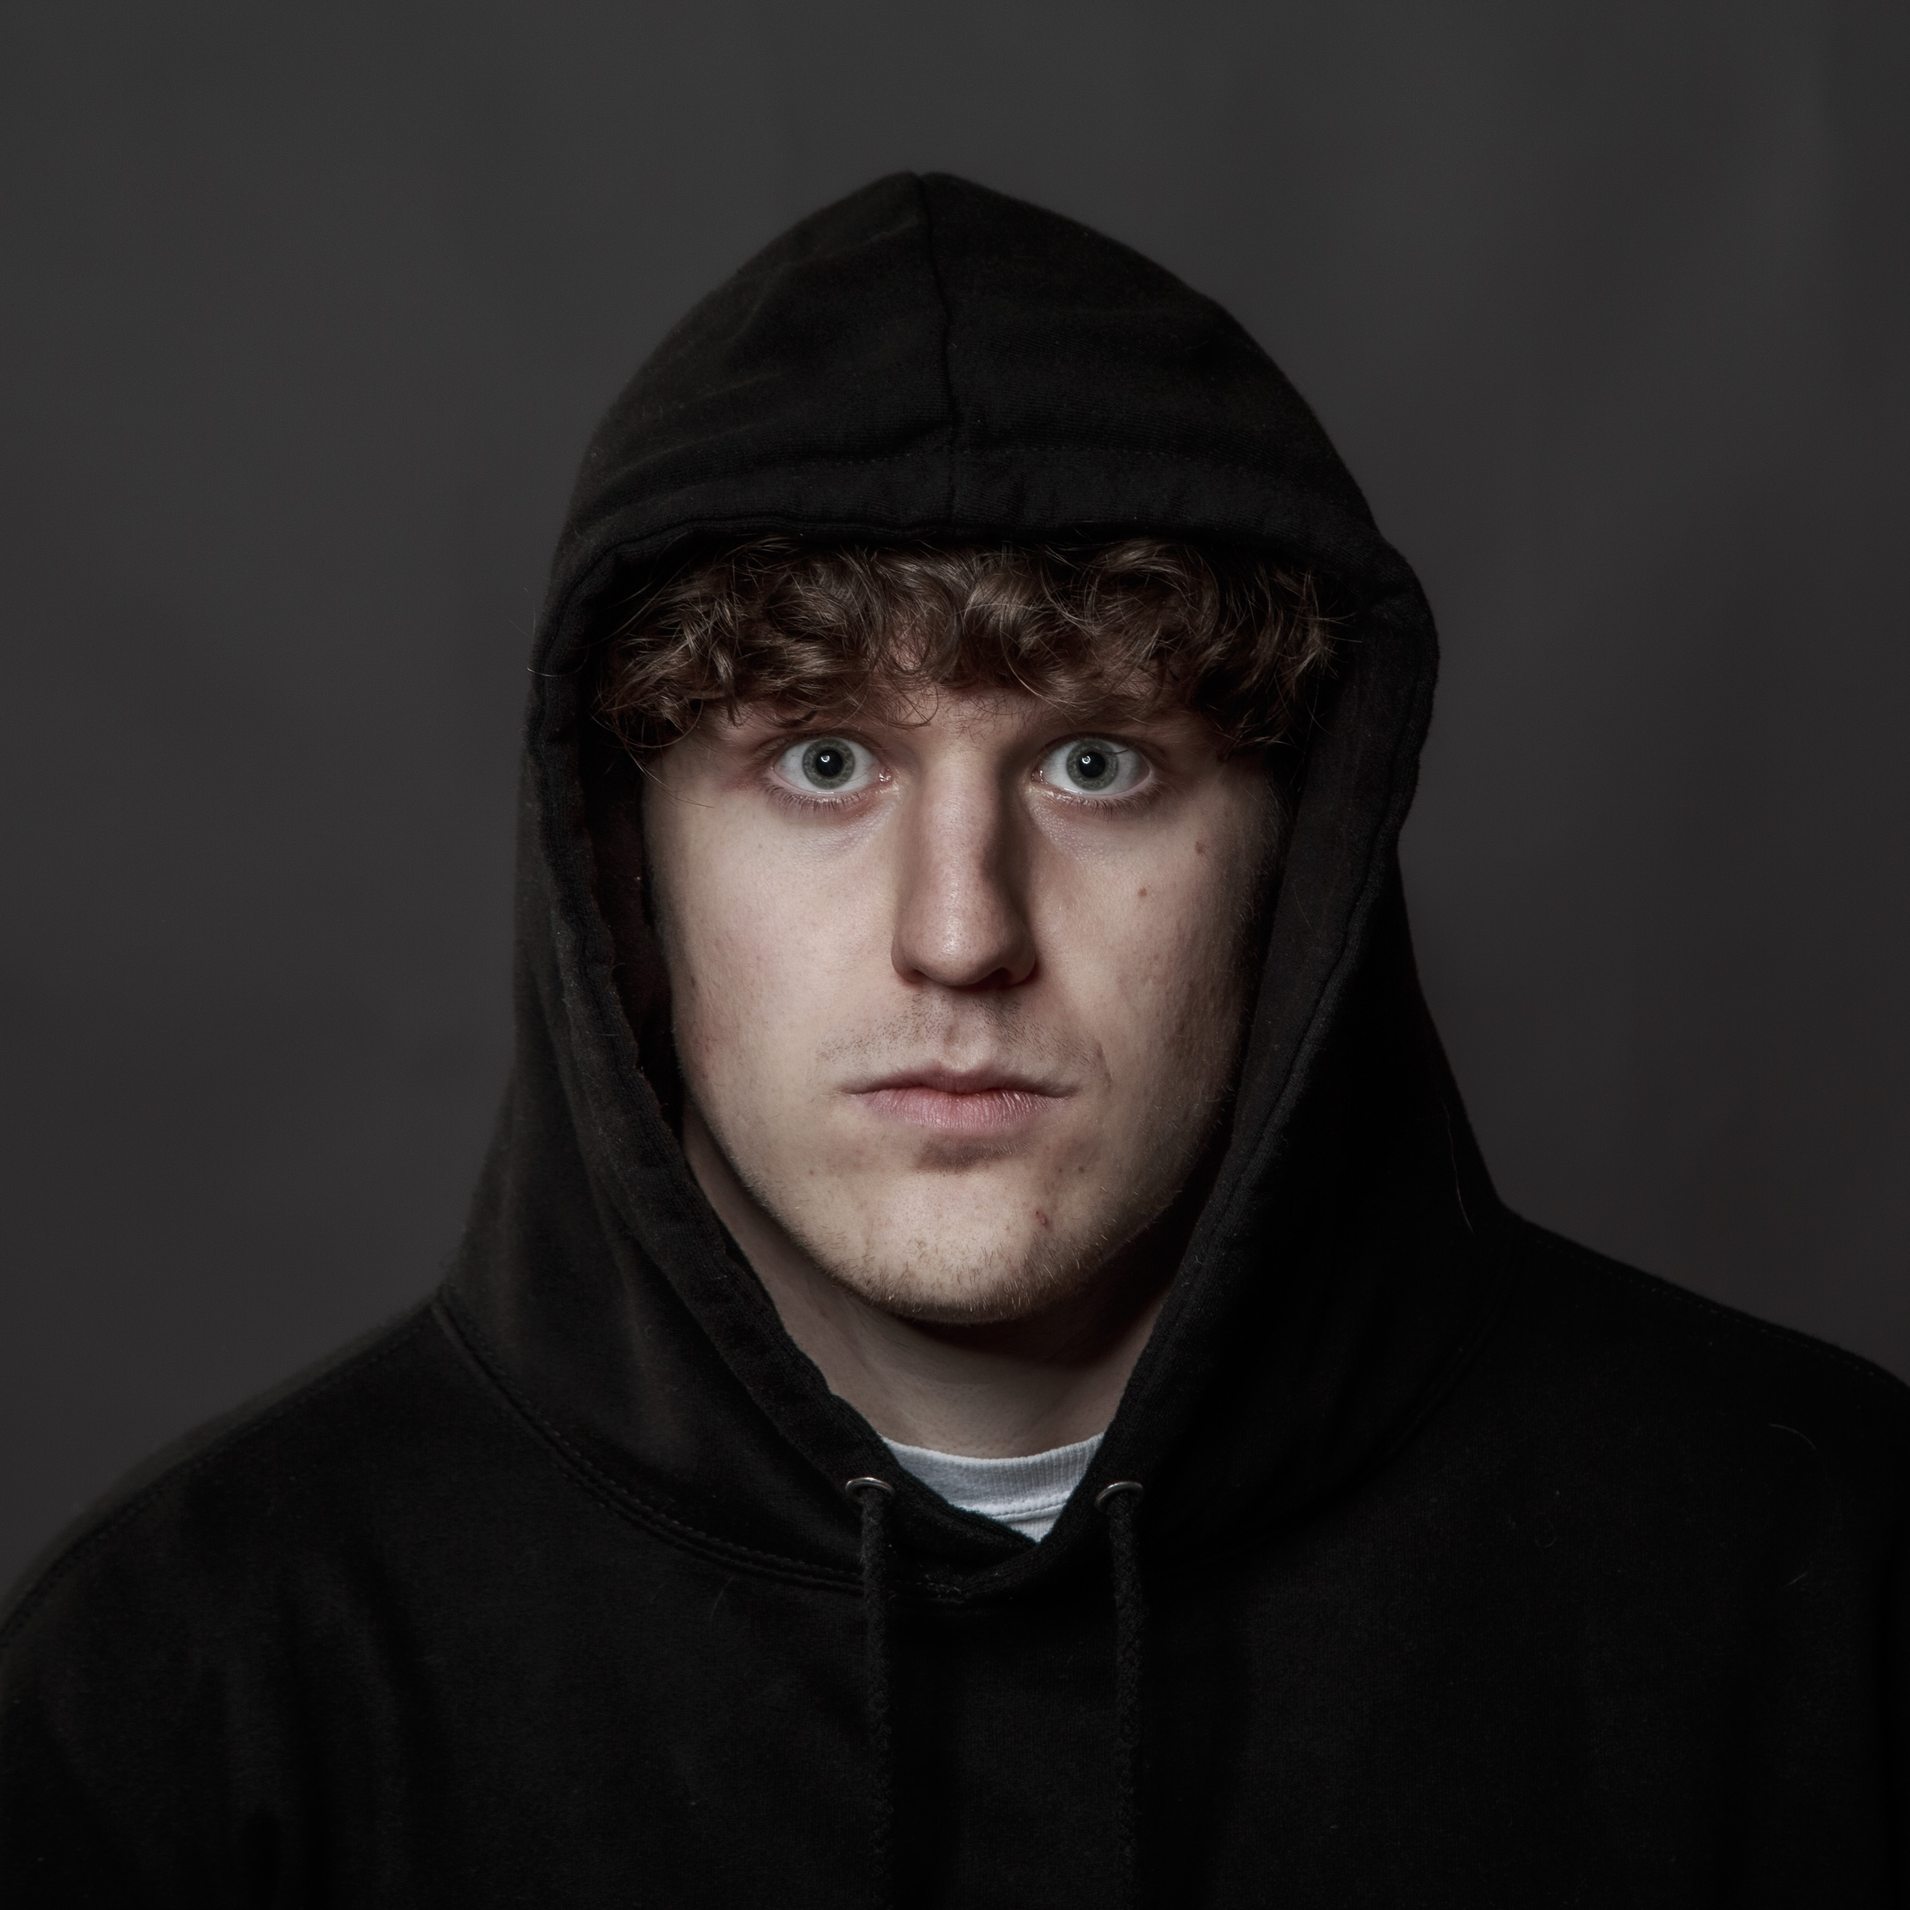
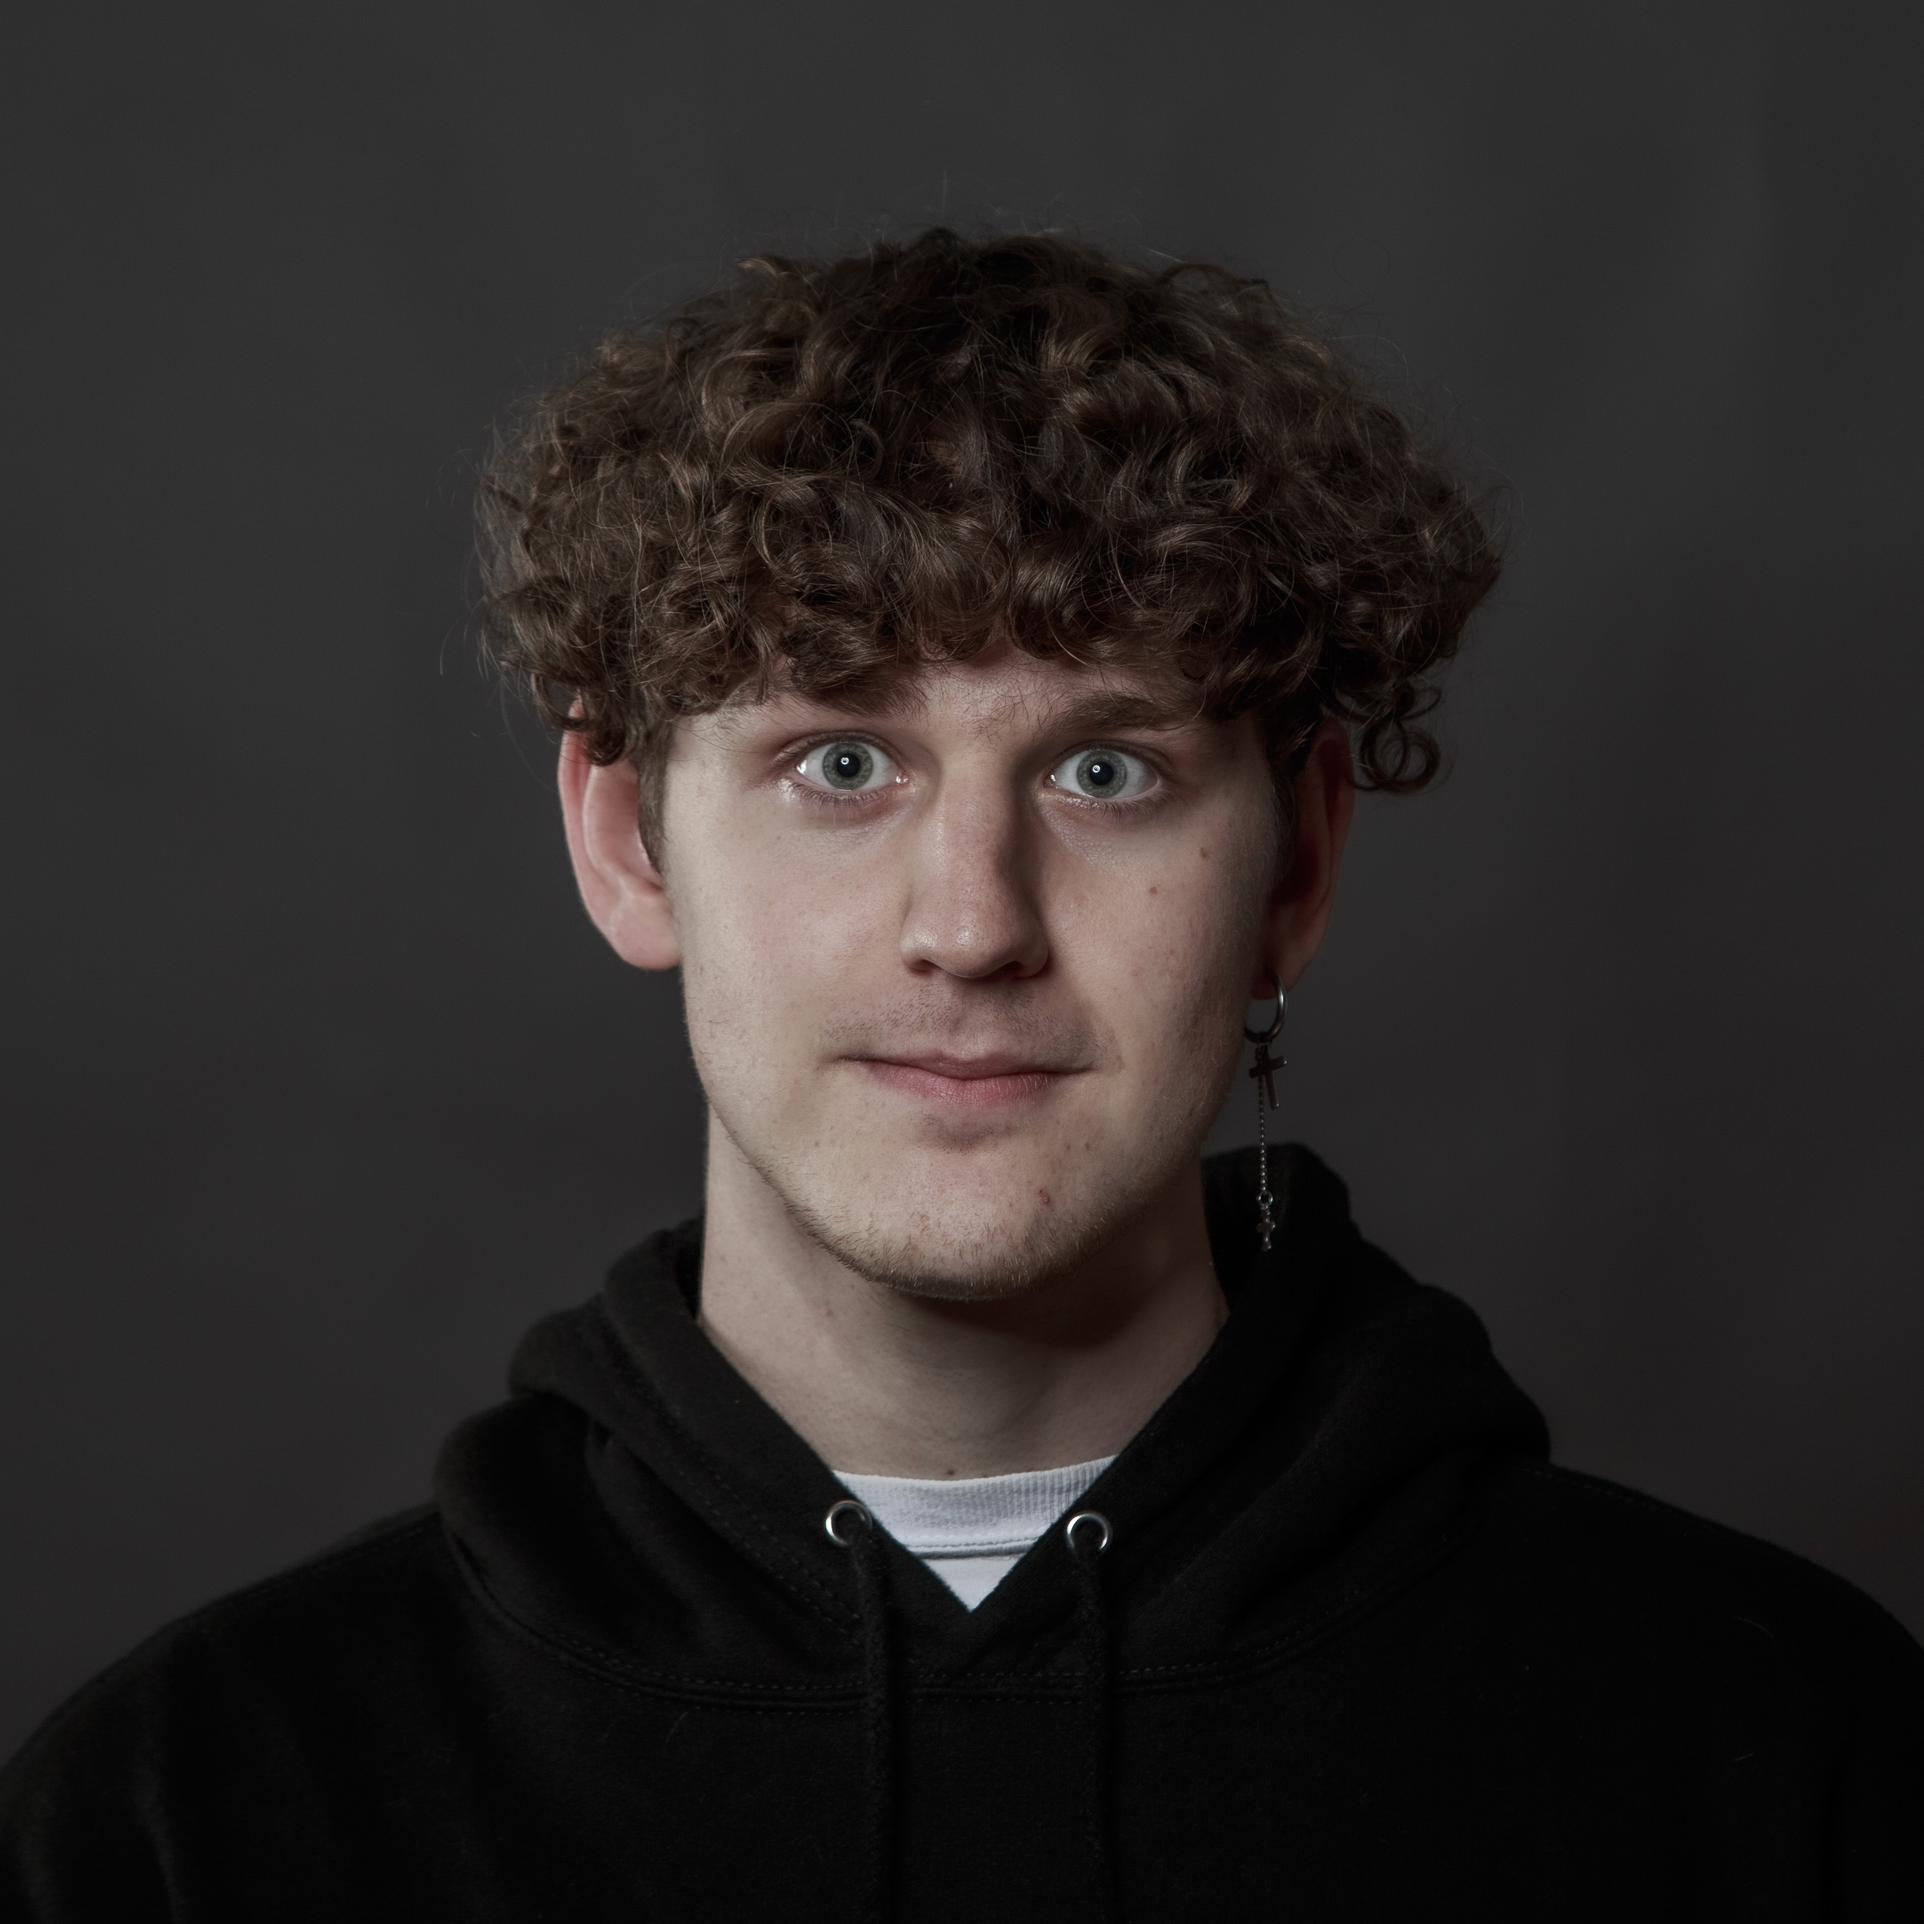
Update 4_11_2023 by julian
Fixed handy view hamburger button function

fixed name of fabi pictures. Team members now in alphabetical order.

added sections on subpages

added links on subpages and blur effect for handy view

Changed region(s): [[0.0312, 0.0936, 1.0, 0.8739], [0.0, 0.8739, 0.0312, 0.9051]]

diff --git a/cookies.html b/cookies.html
@@ -13,6 +13,8 @@
 		<a href="index.html#scopes-objectives" id="normal-nav">Scopes &amp Objectives</a>
 		<a href="index.html#our-team" id="normal-nav">Our Team</a>
 		<a href="index.html#collaborations" id="normal-nav">Collaborations</a>
+		<a href="index.html#research-basis" id="normal-nav">Research Basis</a>
+		<a href="index.html#milestones" id="normal-nav">Milestones</a>
 		<!-- Weitere Links -->
 		<div id="hamburger-icon" onclick="toggleMobileMenu(this)">
 			<div class="bar1"></div>
@@ -22,34 +24,37 @@
 				<li><a href="index.html#scopes-objectives">Scopes &amp Objectives</a></li>
 				<li><a href="index.html#our-team">Our Team</a></li>
 				<li><a href="index.html#collaborations">Collaborations</a></li>
+				<li><a href="index.html#research-basis">Research Basis</a></li>
+				<li><a href="index.html#milestones">Milestones</a></li>
 			</ul>
 		</div>
 	</nav>
+	
+	<section id="cookies">
+    	<h1>Cookies</h1>
 
-    <h1>Cookies</h1>
-
-    <b>Cookie-Erklärung:</b>
-    <p>Wir verwenden auf unserer Website Cookies, um Ihnen ein optimales Benutzererlebnis zu bieten. </p>
-    <p>Ein Cookie ist eine kleine Datei, die auf Ihrem Computer oder Mobilgerät gespeichert wird, wenn Sie eine Website besuchen.</p></p>
+    	<b>Cookie-Erklärung:</b>
+    	<p>Wir verwenden auf unserer Website Cookies, um Ihnen ein optimales Benutzererlebnis zu bieten. </p>
+    	<p>Ein Cookie ist eine kleine Datei, die auf Ihrem Computer oder Mobilgerät gespeichert wird, wenn Sie eine Website besuchen.</p></p>
      
-    <b>Sprachpräferenz-Cookie</b>
-    <p>Dieses Cookie speichert Ihre Sprachpräferenz, um sicherzustellen, dass die Website in der von Ihnen bevorzugten Sprache angezeigt wird.</p> 
-    <p>Dies verbessert Ihr Benutzererlebnis bei wiederholten Besuchen unserer Website.</p>
+    	<b>Sprachpräferenz-Cookie</b>
+    	<p>Dieses Cookie speichert Ihre Sprachpräferenz, um sicherzustellen, dass die Website in der von Ihnen bevorzugten Sprache angezeigt wird.</p> 
+    	<p>Dies verbessert Ihr Benutzererlebnis bei wiederholten Besuchen unserer Website.</p>
 
-    <b>Wir wir Cookies verwenden</b>
-    <p>Das Sprachpräferenz-Cookie wird nur verwendet, um Ihre Sprachauswahl zu speichern und Ihnen die Website in dieser Sprache anzuzeigen. </p>
-    <p>Dieses Cookie wird automatisch gesetzt, wenn Sie eine Sprache aus dem Sprachauswahl-Menü auswählen. </p>
-    <p>Das Cookie wird auf Ihrem Gerät gespeichert, bis Sie Ihre Cookies löschen.</p>
+    	<b>Wir wir Cookies verwenden</b>
+    	<p>Das Sprachpräferenz-Cookie wird nur verwendet, um Ihre Sprachauswahl zu speichern und Ihnen die Website in dieser Sprache anzuzeigen. </p>
+    	<p>Dieses Cookie wird automatisch gesetzt, wenn Sie eine Sprache aus dem Sprachauswahl-Menü auswählen. </p>
+    	<p>Das Cookie wird auf Ihrem Gerät gespeichert, bis Sie Ihre Cookies löschen.</p>
 
-    <b>Wie Sie Cookies verwalten können</b>
-    <p>Sie können Ihre Browsereinstellungen verwenden, um Cookies zu löschen oder zu blockieren.</p>
-    <p>Beachten Sie jedoch, dass einige Funktionen unserer Website möglicherweise nicht korrekt funktionieren, wenn Sie Cookies blockieren.</p>
+    	<b>Wie Sie Cookies verwalten können</b>
+    	<p>Sie können Ihre Browsereinstellungen verwenden, um Cookies zu löschen oder zu blockieren.</p>
+    	<p>Beachten Sie jedoch, dass einige Funktionen unserer Website möglicherweise nicht korrekt funktionieren, wenn Sie Cookies blockieren.</p>
 
-    <b>Kontakt</b>
-    <p>Wenn Sie fragen zu unserer Verwendung von Cookies haben, können Sie uns kontaktieren unter:</p>
-    <p>shwp@protonmail.com</p>
-    </p>
-
+    	<b>Kontakt</b>
+    	<p>Wenn Sie fragen zu unserer Verwendung von Cookies haben, können Sie uns kontaktieren unter:</p>
+    	<p>shwp@protonmail.com</p>
+		</p>
+	</section>
     <footer>
 		<ul>
 			<li><a href="impressum.html">Impressum</a></li>

diff --git a/index.html b/index.html
@@ -6,6 +6,13 @@
 	<title>PlantWhispers</title>
 	<link rel="stylesheet" type="text/css" href="styles.css">
 	<script src="script.js"></script>
+
+	<!-- Preloading the hover images -->
+	<link rel="preload" as="image" href="./assets/img/julian_hood.jpg" />
+	<link rel="preload" as="image" href="./assets/img/fabi_hood.jpg" />
+	<link rel="preload" as="image" href="./assets/img/puschi_hood.jpg" />
+	<link rel="preload" as="image" href="./assets/img/Wewi_hood.jpg" />
+	<link rel="preload" as="image" href="./assets/img/jacob_hood.jpg" />
 </head>
 
 <body lang="en-us">
@@ -25,6 +32,8 @@
 		<a href="index.html#scopes-objectives" id="normal-nav">Scopes &amp Objectives</a>
 		<a href="index.html#our-team" id="normal-nav">Our Team</a>
 		<a href="index.html#collaborations" id="normal-nav">Collaborations</a>
+		<a href="index.html#research-basis" id="normal-nav">Research Basis</a>
+		<a href="index.html#milestones" id="normal-nav">Milestones</a>
 		<!-- Weitere Links -->
 		<div id="hamburger-icon" onclick="toggleMobileMenu(this)">
 			<div class="bar1"></div>
@@ -56,33 +65,33 @@
     <div class="commonninja_component pid-ea3a8c01-cb00-495e-8146-ccbc78a17363"></div> 
 	</section>
 -->
-	<section class="team-section">
+	<section class="team-section" id="our-team">
 		<h2>OUR TEAM</h2>
         <div class="container">
-            <div class="team-member">
-                <div class="member-image kropa" ></div>
-                <h3>Julian Kropatschek</h3>
-                <p>mitglied1@example.com</p>
-            </div>
             <div class="team-member">
                 <div class="member-image fabi"></div>
                 <h3>Fabian Geiblinger</h3>
                 <p>mitglied2@example.com</p>
+            </div>
+			<div class="team-member">
+                <div class="member-image kropa" ></div>
+                <h3>Julian Kropatschek</h3>
+                <p>mitglied1@example.com</p>
             </div>
             <div class="team-member">
                 <div class="member-image puschi"></div>
                 <h3>Simon Puschmann</h3>
                 <p>mitglied3@example.com</p>
             </div>
+			<div class="team-member">
+                <div class="member-image jacob" ></div>
+                <h3>Jacob Szücs</h3>
+                <p>mitglied5@example.com</p>
+            </div>
             <div class="team-member">
                 <div class="member-image wewi"></div>
                 <h3>Simon Wewalka</h3>
                 <p>mitglied4@example.com</p>
-            </div>
-            <div class="team-member">
-                <div class="member-image jacob" ></div>
-                <h3>Jacob Szücs</h3>
-                <p>mitglied5@example.com</p>
             </div>
         </div>
     </section>

diff --git a/impressum.html b/impressum.html
@@ -13,6 +13,8 @@
 		<a href="index.html#scopes-objectives" id="normal-nav">Scopes &amp Objectives</a>
 		<a href="index.html#our-team" id="normal-nav">Our Team</a>
 		<a href="index.html#collaborations" id="normal-nav">Collaborations</a>
+		<a href="index.html#research-basis" id="normal-nav">Research Basis</a>
+		<a href="index.html#milestones" id="normal-nav">Milestones</a>
 		<!-- Weitere Links -->
 		<div id="hamburger-icon" onclick="toggleMobileMenu(this)">
 			<div class="bar1"></div>
@@ -22,26 +24,28 @@
 				<li><a href="index.html#scopes-objectives">Scopes &amp Objectives</a></li>
 				<li><a href="index.html#our-team">Our Team</a></li>
 				<li><a href="index.html#collaborations">Collaborations</a></li>
+				<li><a href="index.html#research-basis">Research Basis</a></li>
+				<li><a href="index.html#milestones">Milestones</a></li>
 			</ul>
 		</div>
 	</nav>
-	
-    <h1>Impressum</h1>
-    <h2>Offenlegung nach § 25 Mediengesetz</h2>
-    <b>Medieninhaber und Herausgeber:</b>
-    <p>Simon Puschmann</p>
-    <p>Wexstraße 19-23</p>     
-    <p>1200 Wien</p>    
-    <b>Kontakt:</b>
-    <p>shwp@protonmail.com</p>
-    <b>Unternehmensgegenstand:</b>
-    <p>Information betreffend der in der 5AHIT (2023/24) im </p>
-    <p>"Technologischen Gewerbemuseum" entstandenen Diplomarbeit "Plant Whispers"</p>
-    <b>Verantwortlich für den Inhalt:</b>
-    <p>Simon Puschmann</p>
-    <p>Wexstraße 19-23</p>     
-    <p>1200 Wien</p> 
-
+	<section id="impressum">
+    	<h1>Impressum</h1>
+    	<h2>Offenlegung nach § 25 Mediengesetz</h2>
+    	<b>Medieninhaber und Herausgeber:</b>
+    	<p>Simon Puschmann</p>
+    	<p>Wexstraße 19-23</p>     
+    	<p>1200 Wien</p>    
+    	<b>Kontakt:</b>
+    	<p>shwp@protonmail.com</p>
+    	<b>Unternehmensgegenstand:</b>
+    	<p>Information betreffend der in der 5AHIT (2023/24) im </p>
+    	<p>"Technologischen Gewerbemuseum" entstandenen Diplomarbeit "Plant Whispers"</p>
+    	<b>Verantwortlich für den Inhalt:</b>
+    	<p>Simon Puschmann</p>
+    	<p>Wexstraße 19-23</p>     
+    	<p>1200 Wien</p> 
+	</section>
 	<footer>
 		<ul>
 			<li><a href="impressum.html">Impressum</a></li>

diff --git a/datenschutz.html b/datenschutz.html
@@ -9,10 +9,12 @@
 </head>
 
 <body lang="en-us" class="impressum-page">
-    <nav>
+  <nav>
 		<a href="index.html#scopes-objectives" id="normal-nav">Scopes &amp Objectives</a>
 		<a href="index.html#our-team" id="normal-nav">Our Team</a>
 		<a href="index.html#collaborations" id="normal-nav">Collaborations</a>
+		<a href="index.html#research-basis" id="normal-nav">Research Basis</a>
+		<a href="index.html#milestones" id="normal-nav">Milestones</a>
 		<!-- Weitere Links -->
 		<div id="hamburger-icon" onclick="toggleMobileMenu(this)">
 			<div class="bar1"></div>
@@ -22,10 +24,12 @@
 				<li><a href="index.html#scopes-objectives">Scopes &amp Objectives</a></li>
 				<li><a href="index.html#our-team">Our Team</a></li>
 				<li><a href="index.html#collaborations">Collaborations</a></li>
+				<li><a href="index.html#research-basis">Research Basis</a></li>
+				<li><a href="index.html#milestones">Milestones</a></li>
 			</ul>
 		</div>
 	</nav>
-
+  <section id="datenschutz">
     <h1>Datenschutz-Grundverordnung (EU DSGVO)</h1>
     <h2>1. Datenschutz auf einen Blick</h2>
     <b>Allgemeine Hinweise:</b>
@@ -56,7 +60,8 @@
     <p>Wir können die IP-Adressen der Besucher unserer Website einsehen. Die IP-Adresse wird dabei ausschließlich </p>
     <p>zur Sicherstellung des ordnungsgemäßen Betriebs unserer Website und zur Abwehr von Missbrauch verwendet. </p>
     <p>Eine darüber hinausgehende Verwendung oder Weitergabe an Dritte erfolgt nicht.</p>
-    <footer>
+  </section>
+  <footer>
 		<ul>
 			<li><a href="impressum.html">Impressum</a></li>
 			<li><a href="cookies.html">Cookies</a></li>

diff --git a/script.js b/script.js
@@ -14,6 +14,18 @@ async function toggleMobileMenu(menu) {
     const milestones = document.getElementById("milestones");
     milestones.classList.toggle('blur');
     }
+    if (p.length === 0  || p === "/" || p.match(/^\/?impressum/)) {
+        const impressum = document.getElementById("impressum");
+        impressum.classList.toggle('blur');
+    }
+    if (p.length === 0  || p === "/" || p.match(/^\/?cookies/)) {
+        const cookies = document.getElementById("cookies");
+        cookies.classList.toggle('blur');
+    }
+    if (p.length === 0  || p === "/" || p.match(/^\/?datenschutz/)) {
+        const datenschutz = document.getElementById("datenschutz");
+        datenschutz.classList.toggle('blur');
+    }
     menu.classList.toggle('open');
 }
 

diff --git a/styles.css b/styles.css
@@ -462,11 +462,11 @@ footer a {
 }
 
 .fabi{
-	background-image: url('./assets/img/fabi_hood.jpg');
+	background-image: url('./assets/img/fabi.jpg');
 }
 
 .member-image.fabi:hover{
-	background-image: url('./assets/img/fabi.jpg');
+	background-image: url('./assets/img/fabi_hood.jpg');
 }
 
 .puschi{
